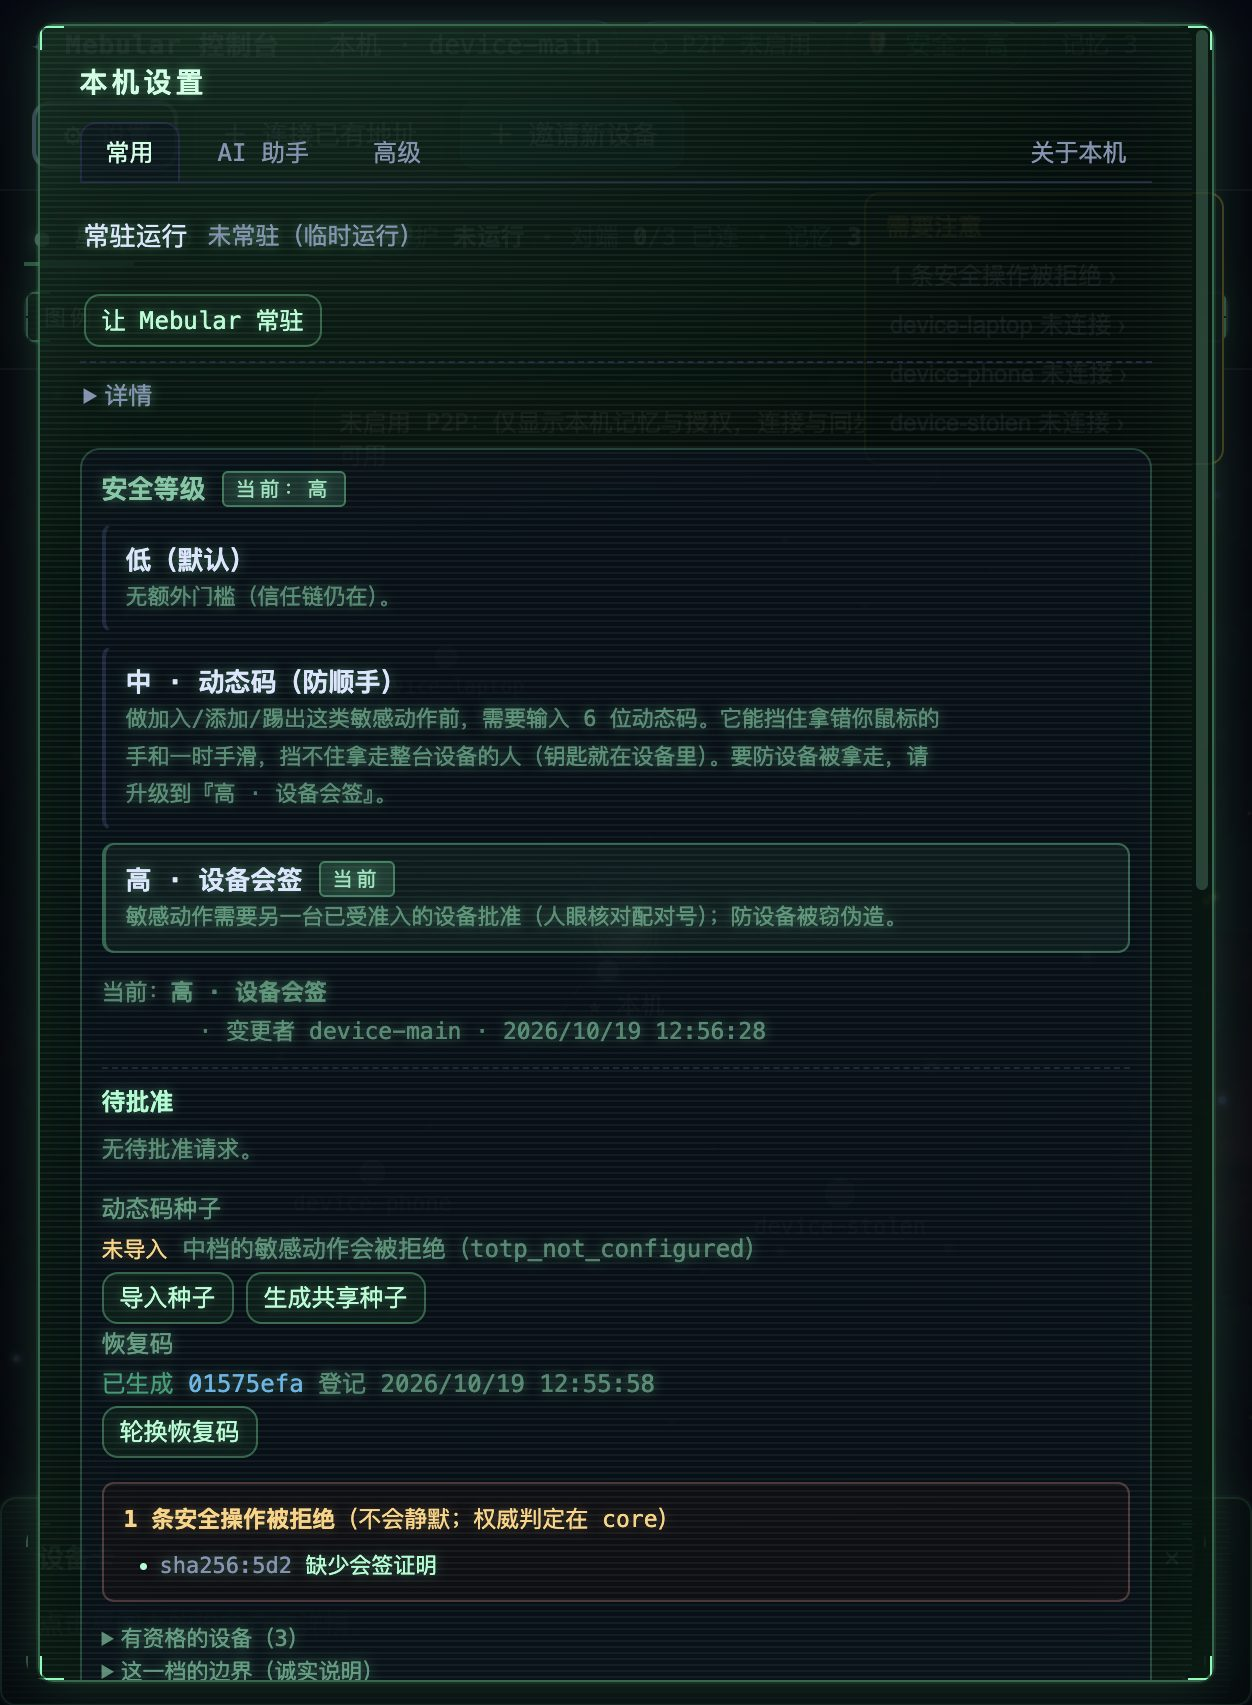
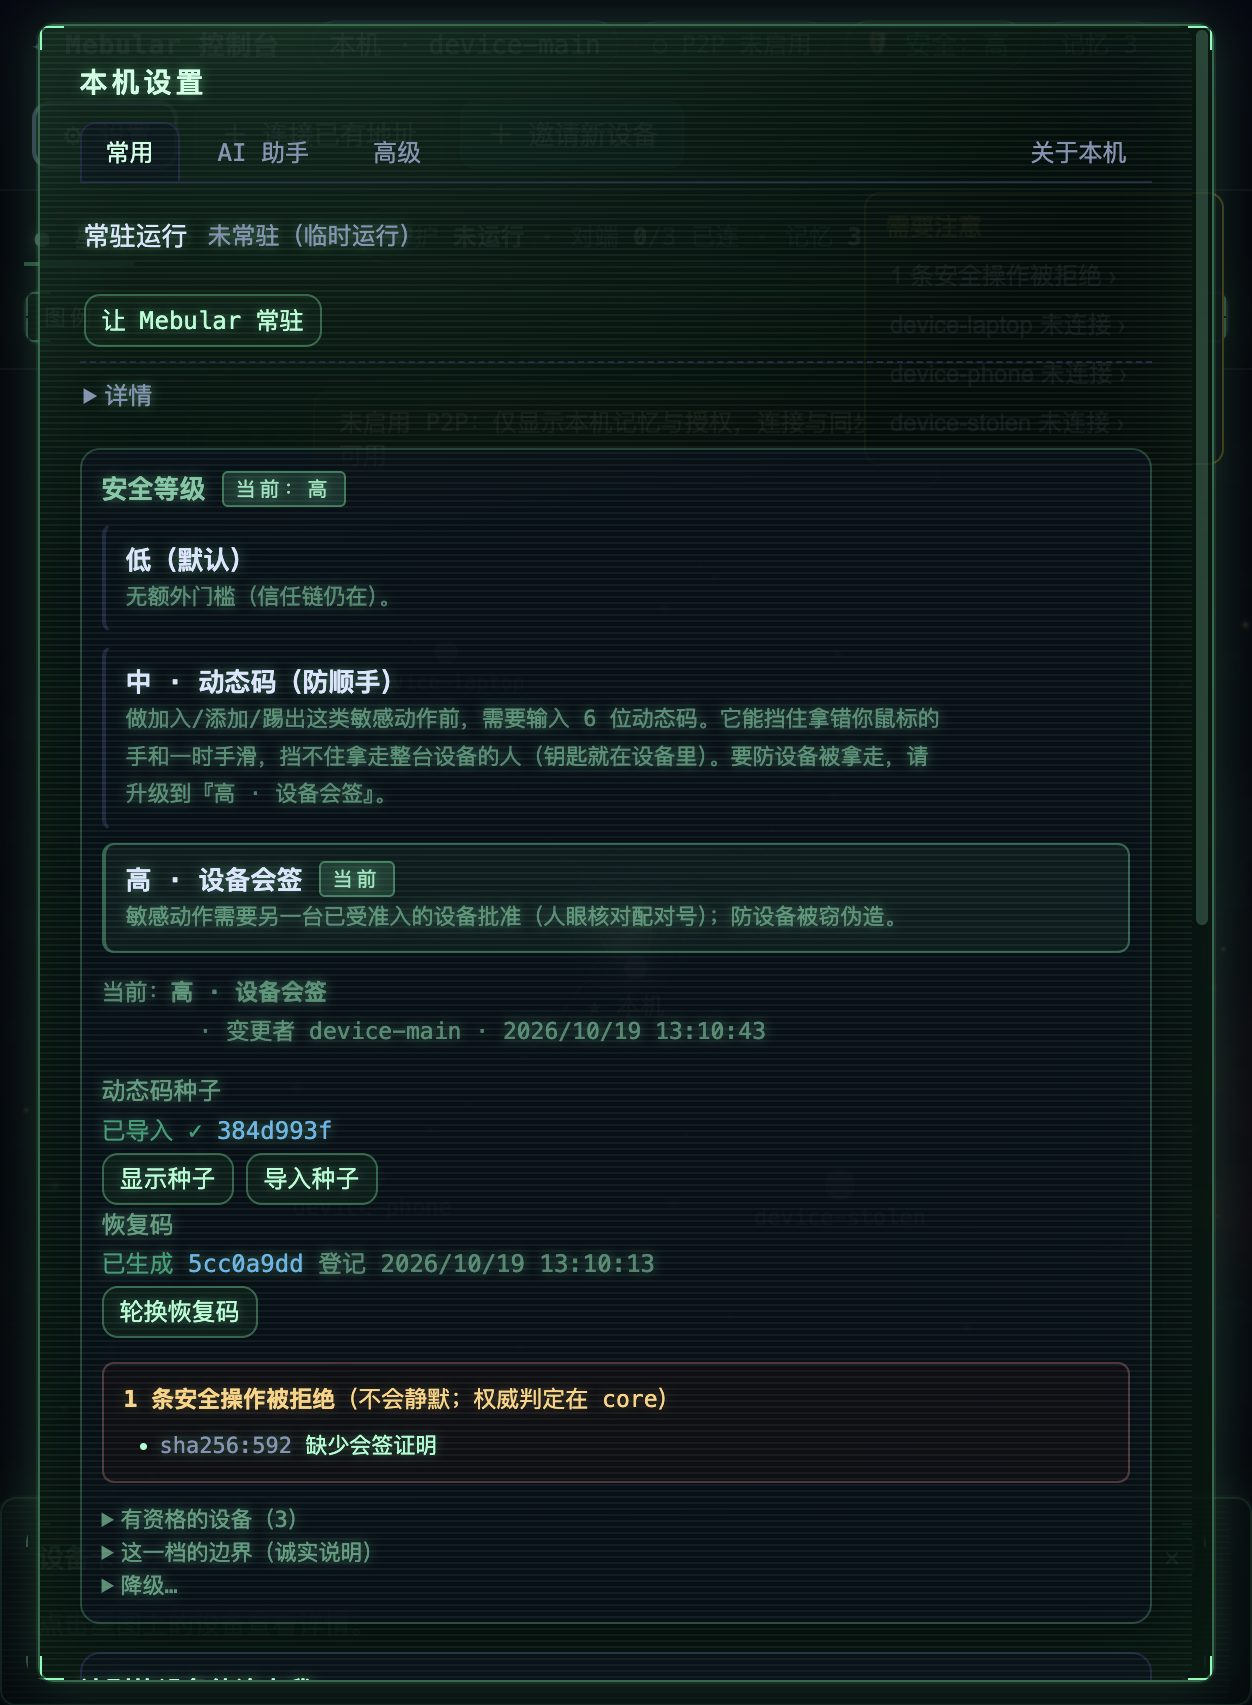
fix(console): S3 待批准入口置顶 + 截图与文案对齐

Changed region(s): [[0.0623, 0.6217, 0.5919, 0.9947], [0.9345, 0.5284, 0.9657, 0.5595]]

diff --git a/packages/console/console.js b/packages/console/console.js
@@ -1268,14 +1268,14 @@ function securityCardHtml() {
       <span class="crt-tag ${securityLevelTag(level)}" data-security-current>当前：${securityLevelLabel(level)}</span>
       ${mismatch ? '<span class="crt-tag crt-tag-error">种子不一致</span>' : ''}
     </div>
+    ${incoming.length > 0 || outgoing.length > 0 ? `<div class="sec-pending sec-pending-top" data-security-pending>
+      <h4>待批准 ${incoming.length > 0 ? `<span class="crt-tag crt-tag-warn">${incoming.length} 项</span>` : ''}</h4>
+      ${incoming.length > 0 ? pendingRows : ''}${outgoingRows}
+    </div>` : ''}
     <ol class="sec-ladder" aria-label="安全等级三档">${ladder}</ol>
     ${mismatch ? '<p class="crt-warn sec-anomaly">⚠ 种子 fingerprint 不一致：请从持有同一颗种子的设备重新导入（导入错误/被替换）。</p>' : ''}
     <p class="sec-current muted">当前：<b>${escapeHtml(SECURITY_LEVEL_TITLE[level])}</b>
       ${sec.changedBy ? ` · 变更者 ${escapeHtml(sec.changedBy)}` : ''}${sec.changedAt ? ` · ${escapeHtml(formatTime(sec.changedAt))}` : ''}</p>
-    ${incoming.length > 0 ? `<div class="sec-pending" data-security-pending>
-      <h4>待批准 <span class="crt-tag crt-tag-warn">${incoming.length} 项</span></h4>
-      ${pendingRows}${outgoingRows}
-    </div>` : `<div class="sec-pending"><h4>待批准</h4>${pendingRows}${outgoingRows}</div>`}
     <dl class="settings-kv sec-kv">
       <dt>动态码种子</dt><dd class="kv-value">${totpStatus}</dd><dd class="kv-action sec-actions">${totpActions}</dd>
       <dt>恢复码</dt><dd class="kv-value">${recoveryStatus}</dd><dd class="kv-action sec-actions">${recoveryActions}</dd>

diff --git a/packages/console/console.css b/packages/console/console.css
@@ -1311,3 +1311,5 @@ details.share[open] summary::before { content: "▾ "; }
   .sec-wait-dot { animation: none; opacity: 1; }
 }
 .sec-pairing-inline { color: #ffd27a; letter-spacing: 1px; font-variant-numeric: tabular-nums; }
+.sec-pending-top { margin: 0 0 10px; padding: 8px 10px; border: 1px solid rgba(255, 210, 122, 0.35); border-radius: 6px; background: rgba(60, 42, 8, 0.22); border-top: 1px solid rgba(255, 210, 122, 0.35); }
+.sec-pending-top h4 { color: #ffd27a; }
